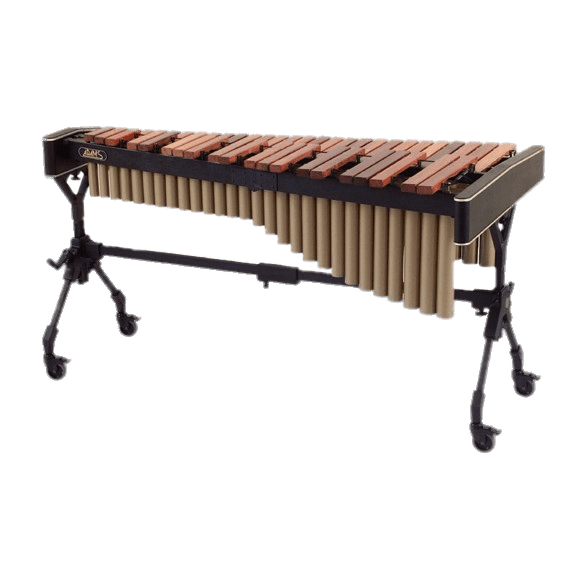
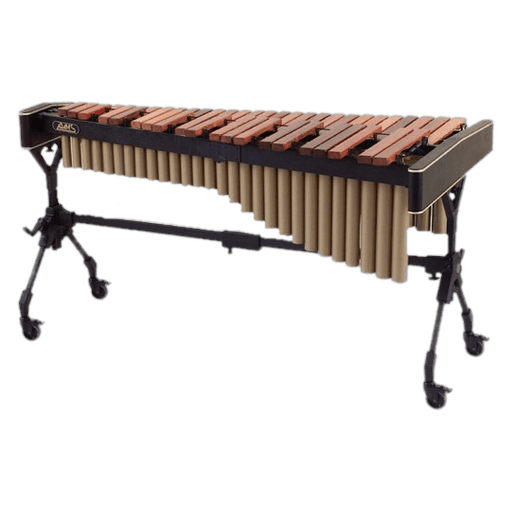
Normalized the instrument pictures + ReadMe GIF

Changed region(s): [[0.0312, 0.1875, 0.9688, 0.8125], [0.9062, 0.3125, 0.9375, 0.3438]]

diff --git a/scripts/normalize_images.py b/scripts/normalize_images.py
@@ -1,0 +1,262 @@
+"""
+Normalises the instrument photos into one consistent set.
+
+This pass makes every one of them the same kind of asset:
+
+  * RGBA PNG, so alpha edges are anti-aliased instead of 1-bit
+  * background keyed out on the JPEGs, flood-filled inward from the corners
+  * cropped to the actual content, then centred on a uniform square canvas
+  * capped at a sane resolution
+
+Usage:
+    python scripts/normalize_images.py --dry-run
+    python scripts/normalize_images.py
+    python scripts/normalize_images.py --canvas 768 --tolerance 40
+
+Requires:
+    pip install pillow numpy
+"""
+
+import argparse
+import sys
+import numpy as np
+from pathlib import Path
+from PIL import Image, ImageDraw, ImageFilter
+
+PROJECT_ROOT = Path(__file__).resolve().parents[1]
+IMAGES_DIR = PROJECT_ROOT / "Assets" / "Images"
+
+DEFAULT_CANVAS = 512
+DEFAULT_PADDING = 16
+DEFAULT_TOLERANCE = 32
+
+# Flood-fill marker. Verified absent from the source before use.
+SENTINEL = (255, 0, 255)
+
+
+def human(num_bytes):
+    value = float(num_bytes)
+    for unit in ("B", "KB", "MB"):
+        if value < 1024.0 or unit == "MB":
+            return f"{value:.0f} {unit}" if unit == "B" else f"{value:.1f} {unit}"
+        value /= 1024.0
+
+
+def has_real_alpha(image):
+    """True if the image carries transparency that actually varies."""
+    if image.mode == "RGBA":
+        return image.getchannel("A").getextrema()[0] < 255
+    return "transparency" in image.info
+
+
+def trim_dark_frame(image, max_fraction=0.05):
+    """
+    Strips a thin dark border off a photo.
+    """
+
+    pixels = np.array(image.convert("RGB"))
+    height, width = pixels.shape[:2]
+
+    limit_y = max(1, int(height * max_fraction))
+    limit_x = max(1, int(width * max_fraction))
+
+    def is_dark(line):
+        return line.size > 0 and line.mean() < 128
+
+    top, bottom, left, right = 0, height, 0, width
+
+    while top < limit_y and is_dark(pixels[top, left:right]):
+        top += 1
+
+    while height - bottom < limit_y and is_dark(pixels[bottom - 1, left:right]):
+        bottom -= 1
+
+    while left < limit_x and is_dark(pixels[top:bottom, left]):
+        left += 1
+
+    while width - right < limit_x and is_dark(pixels[top:bottom, right - 1]):
+        right -= 1
+
+    if (top, left, bottom, right) == (0, 0, height, width):
+        return image
+
+    return image.crop((left, top, right, bottom))
+
+
+def key_once(image, tolerance):
+    """One keying attempt at a fixed tolerance."""
+
+    image = trim_dark_frame(image)
+
+    rgb = image.convert("RGB")
+    width, height = rgb.size
+
+    source = np.array(rgb)
+
+    marker = SENTINEL
+    if np.any(np.all(source == marker, axis=-1)):
+        marker = (254, 0, 254)  # collision, pick a neighbour
+
+    # The Viola background runs from 254 down to 237 across the frame, so a single corner seed does
+    # not describe it. Seeding all round the border lets each seed key its own neighbourhood.
+    border = np.concatenate([source[0, :], source[height - 1, :], source[:, 0], source[:, width - 1]])
+    reference = np.median(border, axis=0)
+
+    step_x = max(1, width // 16)
+    step_y = max(1, height // 16)
+
+    seeds = []
+    seeds += [(x, 0) for x in range(0, width, step_x)]
+    seeds += [(x, height - 1) for x in range(0, width, step_x)]
+    seeds += [(0, y) for y in range(0, height, step_y)]
+    seeds += [(width - 1, y) for y in range(0, height, step_y)]
+
+    work = rgb.copy()
+
+    for x, y in seeds:
+        pixel = source[y, x]
+
+        # Only seed from pixels that actually look like the background, so a seed can never land on
+        # the instrument and eat into it.
+        if np.abs(pixel.astype(int) - reference).max() > tolerance:
+            continue
+
+        ImageDraw.floodfill(work, (x, y), marker, thresh=tolerance)
+
+    filled = np.array(work)
+    background = np.all(filled == marker, axis=-1)
+
+    if not background.any():
+        return image.convert("RGBA")
+
+    alpha = np.where(background, 0, 255).astype("uint8")
+    alpha_image = Image.fromarray(alpha, "L")
+
+    # Erode by a pixel to eat the pale fringe the original matte leaves behind, then soften so the
+    # cutout does not look stamped out.
+    alpha_image = alpha_image.filter(ImageFilter.MinFilter(3))
+    alpha_image = alpha_image.filter(ImageFilter.GaussianBlur(0.6))
+
+    result = rgb.convert("RGBA")
+    result.putalpha(alpha_image)
+
+    return result
+
+
+def key_out_background(image, tolerance, max_tolerance=96):
+    """
+    Keys out the background, raising the tolerance until the border is actually clear.
+    """
+
+    result = None
+    attempt = tolerance
+
+    while attempt <= max_tolerance:
+        keyed = key_once(image, attempt)
+        alpha = np.array(keyed.getchannel("A"))
+
+        opaque = float((alpha > 0).mean())
+
+        # Almost nothing left means the fill escaped through the subject; keep the previous result.
+        if opaque < 0.10 and result is not None:
+            break
+
+        result = keyed
+
+        border = np.concatenate([alpha[0, :], alpha[-1, :], alpha[:, 0], alpha[:, -1]])
+
+        if float((border == 0).mean()) >= 0.99:
+            break
+
+        attempt += 8
+
+    return result if result is not None else image.convert("RGBA")
+
+
+def fit_to_canvas(image, canvas, padding):
+    image = image.convert("RGBA")
+
+    bbox = image.getbbox()
+    if bbox:
+        image = image.crop(bbox)
+
+    inner = max(1, canvas - 2 * padding)
+    scale = min(inner / image.width, inner / image.height)
+
+    size = (max(1, round(image.width * scale)), max(1, round(image.height * scale)))
+    image = image.resize(size, Image.LANCZOS)
+
+    out = Image.new("RGBA", (canvas, canvas), (0, 0, 0, 0))
+    out.paste(image, ((canvas - size[0]) // 2, (canvas - size[1]) // 2), image)
+
+    return out
+
+
+def main():
+    parser = argparse.ArgumentParser(description="Normalise the instrument images.")
+    parser.add_argument("--canvas", type=int, default=DEFAULT_CANVAS, help=f"Square canvas size (default {DEFAULT_CANVAS}).")
+    parser.add_argument("--padding", type=int, default=DEFAULT_PADDING, help=f"Transparent margin (default {DEFAULT_PADDING}).")
+    parser.add_argument("--tolerance", type=int, default=DEFAULT_TOLERANCE, help=f"Background keying tolerance (default {DEFAULT_TOLERANCE}).")
+    parser.add_argument("--dry-run", action="store_true", help="Report what would change without writing.")
+    args = parser.parse_args()
+
+    if not IMAGES_DIR.is_dir():
+        sys.exit(f"Image directory not found: {IMAGES_DIR}")
+
+    sources = sorted(p for p in IMAGES_DIR.rglob("*") if p.suffix.lower() in (".png", ".jpg", ".jpeg"))
+
+    if not sources:
+        sys.exit(f"No images found under {IMAGES_DIR}")
+
+    print(f"{len(sources)} images under {IMAGES_DIR.relative_to(PROJECT_ROOT)}")
+    print()
+    print(f"{'instrument':<24} {'before':<26} {'after':<20} {'keyed'}")
+    print("-" * 82)
+
+    before_total = 0
+    after_total = 0
+    keyed = 0
+
+    for path in sources:
+        instrument = path.parent.name
+        size_before = path.stat().st_size
+        before_total += size_before
+
+        with Image.open(path) as opened:
+            opened.load()
+            description = f"{opened.width}x{opened.height} {opened.mode} {human(size_before)}"
+            needs_keying = not has_real_alpha(opened)
+            image = opened.copy()
+
+        if needs_keying:
+            image = key_out_background(image, args.tolerance)
+            keyed += 1
+
+        image = fit_to_canvas(image, args.canvas, args.padding)
+
+        destination = path.with_name("instrument.png")
+
+        if args.dry_run:
+            print(f"{instrument:<24} {description:<26} {'(dry run)':<20} {'yes' if needs_keying else ''}")
+            continue
+
+        image.save(destination, "PNG", optimize=True)
+
+        # The JPEGs become PNGs; drop the originals so the folder holds exactly one image.
+        if path != destination:
+            path.unlink()
+
+        size_after = destination.stat().st_size
+        after_total += size_after
+
+        print(f"{instrument:<24} {description:<26} {f'{args.canvas}x{args.canvas} RGBA {human(size_after)}':<20} {'yes' if needs_keying else ''}")
+
+    print("-" * 82)
+    print(f"backgrounds keyed out : {keyed}")
+
+    if not args.dry_run and before_total:
+        print(f"total                 : {human(before_total)} -> {human(after_total)}")
+
+
+if __name__ == "__main__":
+    main()

diff --git a/scripts/optimize_showcase.py b/scripts/optimize_showcase.py
@@ -1,0 +1,128 @@
+"""
+Re-encodes the README showcase GIF.
+
+Usage:
+    python scripts/optimize_showcase.py --dry-run
+    python scripts/optimize_showcase.py
+    python scripts/optimize_showcase.py --width 1100 --fps 15 --colors 256
+
+Requires:
+    ffmpeg on PATH   (winget install Gyan.FFmpeg)
+"""
+
+import argparse
+import shutil
+import subprocess
+import sys
+from pathlib import Path
+
+PROJECT_ROOT = Path(__file__).resolve().parents[1]
+DEFAULT_SOURCE = PROJECT_ROOT / "Examples" / "Example_Showcase_2.0.gif"
+
+DEFAULT_WIDTH = 900
+DEFAULT_FPS = 12
+DEFAULT_COLORS = 192
+
+
+def human(num_bytes):
+    value = float(num_bytes)
+    for unit in ("B", "KB", "MB", "GB"):
+        if value < 1024.0 or unit == "GB":
+            return f"{value:.1f} {unit}"
+        value /= 1024.0
+
+
+def build_filter(width, fps, colors):
+    return (
+        f"fps={fps},"
+        f"scale={width}:-1:flags=lanczos,"
+        "split[s0][s1];"
+        # stats_mode=diff weights the palette toward pixels that change, rather than toward the
+        # large static areas of the UI.
+        f"[s0]palettegen=max_colors={colors}:stats_mode=diff[p];"
+        # diff_mode=rectangle limits each frame to the changed region.
+        "[s1][p]paletteuse=dither=bayer:bayer_scale=5:diff_mode=rectangle"
+    )
+
+
+def encode(source, destination, width, fps, colors):
+    command = [
+        "ffmpeg",
+        "-y",
+        "-loglevel", "error",
+        "-i", str(source),
+        "-vf", build_filter(width, fps, colors),
+        "-loop", "0",
+        str(destination),
+    ]
+
+    result = subprocess.run(command, capture_output=True, text=True)
+
+    if result.returncode != 0:
+        raise RuntimeError(result.stderr.strip() or "ffmpeg failed")
+
+
+def main():
+    parser = argparse.ArgumentParser(description="Re-encode the README showcase GIF.")
+    parser.add_argument("--source", type=Path, default=DEFAULT_SOURCE)
+    parser.add_argument("--width", type=int, default=DEFAULT_WIDTH, help=f"Target width in pixels (default {DEFAULT_WIDTH}).")
+    parser.add_argument("--fps", type=int, default=DEFAULT_FPS, help=f"Output frame rate (default {DEFAULT_FPS}).")
+    parser.add_argument("--colors", type=int, default=DEFAULT_COLORS, help=f"Palette size, max 256 (default {DEFAULT_COLORS}).")
+    parser.add_argument("--dry-run", action="store_true", help="Report the source stats and stop.")
+    parser.add_argument("--no-backup", action="store_true", help="Do not keep the original alongside the result.")
+    args = parser.parse_args()
+
+    source = args.source
+
+    if not source.is_file():
+        sys.exit(f"Not found: {source}")
+
+    if shutil.which("ffmpeg") is None:
+        sys.exit(
+            "ffmpeg is not on PATH.\n"
+            "    Windows : winget install Gyan.FFmpeg\n"
+            "    macOS   : brew install ffmpeg\n"
+            "    Linux   : sudo apt install ffmpeg\n"
+        )
+
+    original_size = source.stat().st_size
+    print(f"source : {human(original_size)}")
+
+    if args.dry_run:
+        print("Dry run: nothing written.")
+        return
+
+    if not args.no_backup:
+        backup = source.with_suffix(source.suffix + ".original")
+        if not backup.exists():
+            shutil.copy2(source, backup)
+            print(f"backup : {backup.name}")
+
+    temporary = source.with_suffix(".tmp.gif")
+
+    try:
+        encode(source, temporary, args.width, args.fps, args.colors)
+    except RuntimeError as exc:
+        temporary.unlink(missing_ok=True)
+        sys.exit(f"ffmpeg failed: {exc}")
+
+    new_size = temporary.stat().st_size
+
+    print(f"result : {args.width}px wide, {args.fps} fps, {args.colors} colours, {human(new_size)}")
+
+    if new_size >= original_size:
+        temporary.unlink()
+        sys.exit("Re-encode came out no smaller - leaving the original in place.")
+
+    temporary.replace(source)
+
+    print(f"saved  : {human(original_size - new_size)}  ({new_size / original_size * 100.0:.1f}% of original)")
+
+    if not args.no_backup:
+        print()
+        print("The original is kept as *.gif.original - delete it once you are happy with the result;")
+        print("it must not be committed.")
+
+
+if __name__ == "__main__":
+    main()
